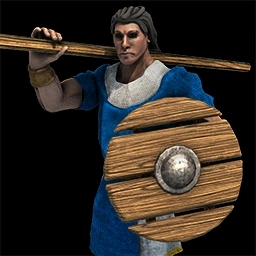
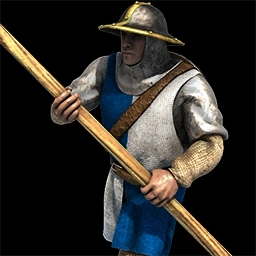
Add the js refactor code to suit DOM instead of console. Redo player unit selection and game window proper result display with scores and winner announcement.

diff --git a/script.js b/script.js
@@ -4,6 +4,9 @@ function getRandomNumBetween(min, max) {
 
 function getComputerChoice() {
     const choice = getRandomNumBetween(0, 2);
+    // changes image
+    const computerImage =  document.querySelector('.right-image img')
+    computerImage.src = `images/${choice}.webp`;
     switch(choice) {
         case 0:
             return "scout";
@@ -16,30 +19,63 @@ function getComputerChoice() {
     }
 }
 
-function getHumanChoice() {
-    const choice = prompt("Which unit will you choose? Scout - Skirm - Spear").toLowerCase();
+function getHumanChoice(e) {
+    const choice = e.target.value;
+    const humanImage =  document.querySelector('.left-image img')
+    switch(choice) {
+        case "scout":
+            humanImage.src = `images/0.webp`
+            break
+        case "skirm":
+            humanImage.src = `images/1.webp`
+            break
+        case "spear":
+            humanImage.src = `images/2.webp`
+            break
+    }
     return choice;
 }
 
+
 function playGame() {
+    const scoresElem = document.querySelector('.scores')
+    const message = document.querySelector('.message')
+    const buttons = document.querySelectorAll('button')
+    const div = document.querySelector('div.box')
+    const outcome = document.createElement('p')
     let humanScore = 0, computerScore = 0;
-    function playRound(humanChoice, computerChoice) {
-        if (humanChoice === computerChoice) {
-            console.log("Draw!", `Both chose ${humanChoice}.`)
-        } else if (
-            (humanChoice === "scout" && computerChoice === "skirm") ||
-            (humanChoice === "skirm" && computerChoice === "spear") ||
-            (humanChoice === "spear" && computerChoice === "scout")) {
-                console.log(`You Win! ${humanChoice} beats ${computerChoice}`)
-                humanScore++
-        } else if (
-            (computerChoice === "scout" && humanChoice === "skirm") ||
-            (computerChoice === "skirm" && humanChoice === "spear") ||
-            (computerChoice === "spear" && humanChoice === "scout")) {
-                console.log(`You Lose! ${computerChoice} beats ${humanChoice}`)
-                computerScore++
+    function playRound(event) {
+        if (humanScore < 5 && computerScore < 5) {
+            let humanChoice = getHumanChoice(event)
+            let computerChoice = getComputerChoice()
+            if (humanChoice === computerChoice) {
+                message.textContent = `Draw! Both chose ${humanChoice}.`
+            } else if (
+                (humanChoice === "scout" && computerChoice === "skirm") ||
+                (humanChoice === "skirm" && computerChoice === "spear") ||
+                (humanChoice === "spear" && computerChoice === "scout")) {
+                    message.textContent = `You Win! ${humanChoice} beats ${computerChoice}`
+                    humanScore++
+            } else if (
+                (computerChoice === "scout" && humanChoice === "skirm") ||
+                (computerChoice === "skirm" && humanChoice === "spear") ||
+                (computerChoice === "spear" && humanChoice === "scout")) {
+                    message.textContent = `You Lose! ${computerChoice} beats ${humanChoice}`
+                    computerScore++
+            }
+            scoresElem.textContent = `Human Score: ${humanScore} Computer Score: ${computerScore}`
+        } 
+        if (humanScore >= 5) {
+            outcome.textContent = "Congrats! You won the Aoe2 Unit War against AI"
+        } else if (computerScore >= 5){
+            outcome.textContent = "Alas! You lost this match against AI"
         }
+        div.appendChild(outcome)
     }
+
+    buttons.forEach(button => {
+        button.addEventListener('click', playRound)
+    })
 }
 
 playGame();

diff --git a/index.html b/index.html
@@ -7,16 +7,16 @@
     <link rel="stylesheet" href="style.css">
 </head>
 <body>
-    <button value="scout">Scout</button>
-    <button value="skirm">Skirm</button>
-    <button value="spear">Spear</button>
+    <button class="selection" value="scout">Scout</button>
+    <button class="selection" value="skirm">Skirm</button>
+    <button class="selection" value="spear">Spear</button>
     <div class="box">
         <h2>Game Window</h2>
         <p>
             | <strong>Current Scores</strong> | <span class="scores">Human Score: 0 Computer Score: 0</span>
         </p>
-        <p class="winner">
-            No Winner Yet...
+        <p>
+            Result: <span class="message">Game has not started Yet...</span>
         </p>
     </div>
     <div class="left-image">

diff --git a/style.css b/style.css
@@ -12,7 +12,7 @@ body {
     overflow: hidden;
 }
 
-button {
+button.selection {
     padding: 20px;
     border: none;
     border-radius: 4px;
@@ -25,13 +25,24 @@ button {
     display: block;
 }
 
+button.selection:hover,
 button:hover {
     opacity: 0.8;
     transform: scale(0.95);
 }
 
-button:active {
+button.selection:active {
     background-color: rgb(126, 111, 91);
+}
+
+button {
+    width: fit-content;
+    padding: 10px 20px;
+    cursor: pointer;
+    border: none;
+    background-color: rgb(31, 31, 31);
+    color: white;
+    transition: all 0.1s ease-in-out;
 }
 
 .box {
@@ -51,7 +62,7 @@ button:active {
     display: flex;
     flex-direction: column;
     gap: 10px;
-    padding-bottom: 80px;
+    padding-bottom: 40px;
 }
 
 h2 {
